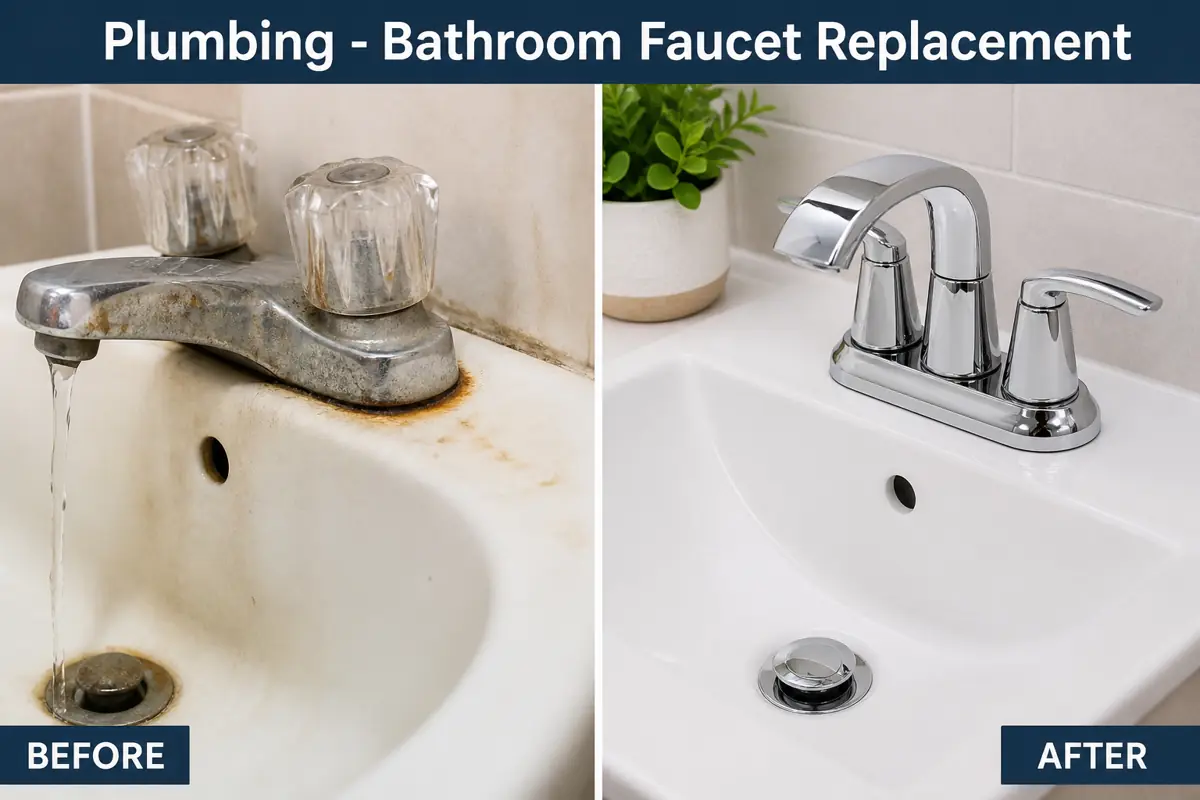
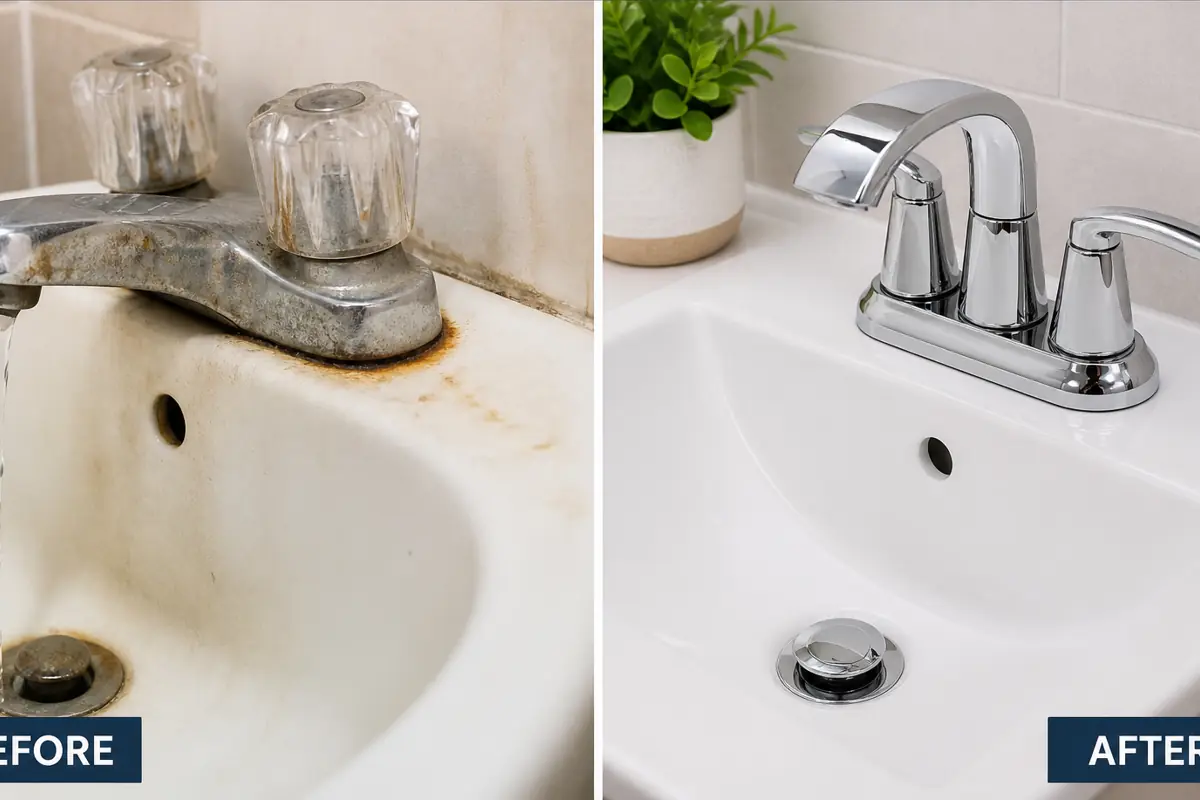
fix(mobile): stop price/link overlap in service cards; crop baked titles from before/after photos
Service cards are now flex columns with the request link in normal flow
(margin-top:auto), so From-prices can never overlap the CTA. Before/after
webp examples are re-cropped to remove the headline banners baked into
the source images that duplicated the tile overlay captions.

diff --git a/styles.css b/styles.css
@@ -137,7 +137,7 @@ h2 { font-size: clamp(2rem, 4vw, 3.25rem); }
 
 .services { background: var(--paper-warm); }
 .services-grid { display: grid; grid-template-columns: repeat(3, 1fr); gap: 18px; }
-.service-card { position: relative; min-height: 292px; padding: 30px; background: #fff; border: 1px solid #f0ded4; border-radius: var(--radius); box-shadow: 0 7px 24px rgba(93,54,31,.06); transition: transform .22s ease, box-shadow .22s ease, border .22s ease; }
+.service-card { position: relative; display: flex; flex-direction: column; min-height: 292px; padding: 30px; background: #fff; border: 1px solid #f0ded4; border-radius: var(--radius); box-shadow: 0 7px 24px rgba(93,54,31,.06); transition: transform .22s ease, box-shadow .22s ease, border .22s ease; }
 .service-card:hover { transform: translateY(-6px); border-color: #f3b695; box-shadow: 0 18px 35px rgba(93,54,31,.11); }
 .service-icon { width: 52px; height: 52px; display: grid; place-items: center; margin-bottom: 21px; color: var(--orange-dark); background: #fff0e8; border-radius: 14px; font-size: 1.25rem; }
 .service-card h3 { margin-bottom: 12px; font-size: 1.28rem; }
@@ -145,7 +145,7 @@ h2 { font-size: clamp(2rem, 4vw, 3.25rem); }
 .featured-service { color: #fff; background: var(--ink); border-color: var(--ink); }
 .featured-service p { color: #b9c1cd; }
 .featured-service .service-icon { color: var(--yellow); background: rgba(255,255,255,.1); }
-.text-link { position: absolute; left: 30px; bottom: 26px; display: inline-flex; gap: 8px; align-items: center; padding: 0; color: var(--orange-dark); background: transparent; border: 0; font-size: .88rem; font-weight: 750; }
+.text-link { position: static; margin-top: auto; padding-top: 16px; display: inline-flex; gap: 8px; align-items: center; color: var(--orange-dark); background: transparent; border: 0; font-size: .88rem; font-weight: 750; }
 .featured-service .text-link { color: var(--yellow); }
 .text-link:hover i { transform: translateX(4px); }
 .text-link i { transition: transform .2s ease; }
